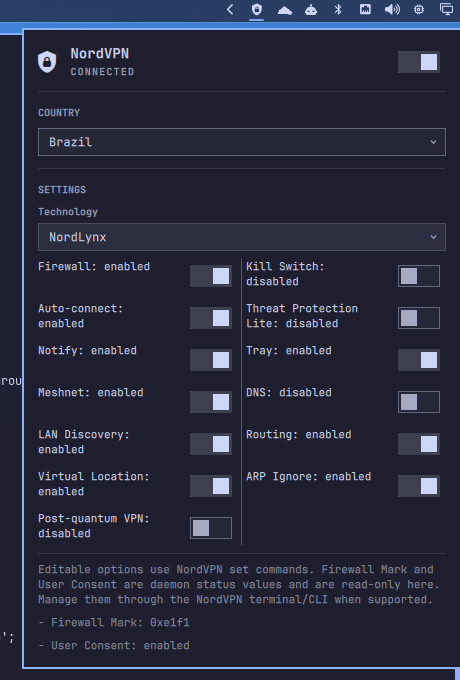
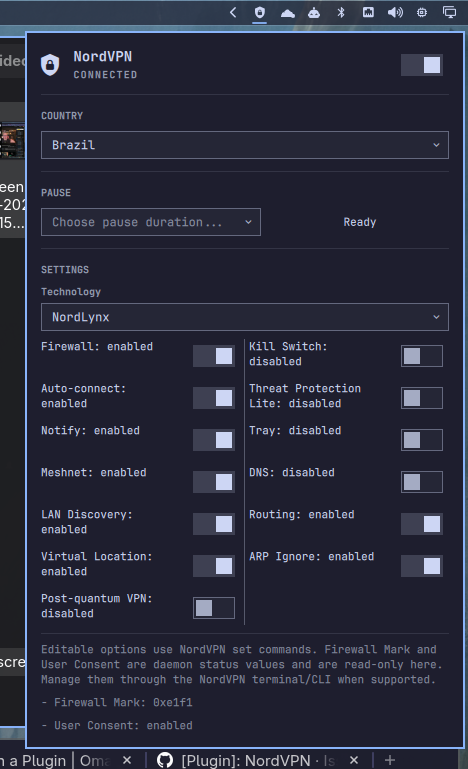
feat: add VPN pause duration selector
- Add pause duration dropdown selector in Panel
- Integrate nordvpn pause command in Service
- Display countdown timer while VPN is paused
- Reset pause countdown on connection state change
- Update documentation and preview image

Changed region(s): [[0.0, 0.0, 1.0, 1.0], [0.7304, 0.2779, 0.8217, 0.3088], [0.5174, 0.2779, 0.5783, 0.3088]]

diff --git a/Service.qml b/Service.qml
@@ -17,7 +17,7 @@ Item {
   readonly property bool transitioning: connectionState === "Connecting" || connectionState === "Reconnecting" || connectionState === "Disconnecting"
   readonly property bool unavailable: connectionState === "Unavailable"
   readonly property bool active: _desired === -1 ? connected : (_desired === 1)
-  readonly property bool busy: statusProcess.running || countriesProcess.running || controlProcess.running || setCountryProcess.running
+  readonly property bool busy: statusProcess.running || countriesProcess.running || controlProcess.running || setCountryProcess.running || pauseProcess.running
   readonly property string statusText: Model.statusText(connectionState)
   property string actionStatus: ""
   property string lastError: ""
@@ -26,6 +26,9 @@ Item {
   property string _countriesOutput: ""
   property var vpnSettings: ({})
   property string settingsError: ""
+  property int pauseRemainingSec: 0
+  property string _pauseDuration: ""
+  readonly property string pauseCountdownText: pauseRemainingSec > 0 ? formatPauseTime(pauseRemainingSec) : "Ready"
   readonly property bool settingsBusy: settingsProcess.running || setSettingProcess.running
 
   function explainError(text) {
@@ -55,6 +58,26 @@ Item {
     _desired = (connected || transitioning) ? 0 : 1
     controlProcess.command = _desired === 1 ? ["nordvpn", "connect"] : ["nordvpn", "disconnect"]
     controlProcess.running = true
+  }
+  function formatPauseTime(seconds) {
+    var total = Math.max(0, parseInt(seconds, 10) || 0)
+    var minutes = Math.floor(total / 60)
+    var secs = total % 60
+    return minutes + ":" + (secs < 10 ? "0" : "") + secs
+  }
+  function durationSeconds(duration) {
+    var values = { "5m": 300, "15m": 900, "30m": 1800, "1h": 3600, "24h": 86400 }
+    return values[String(duration || "")] || 0
+  }
+  function clearPauseCountdown() {
+    pauseRemainingSec = 0
+    _pauseDuration = ""
+  }
+  function pause(duration) {
+    if (!duration || pauseProcess.running) return
+    _pauseDuration = duration
+    pauseProcess.command = ["nordvpn", "pause", duration]
+    pauseProcess.running = true
   }
   function setCountry(value) {
     if (!value || setCountryProcess.running) return
@@ -91,6 +114,16 @@ Item {
       if (ticks >= 6) { ticks = 0; running = false; root._desired = -1 }
     }
   }
+  Timer {
+    id: pauseTimer
+    interval: 1000
+    repeat: true
+    running: root.pauseRemainingSec > 0
+    onTriggered: {
+      if (root.pauseRemainingSec > 0) root.pauseRemainingSec -= 1
+    }
+  }
+
   Timer {
     id: actionStatusTimer
     interval: 3000
@@ -133,6 +166,24 @@ Item {
       if (exitCode === 0) {
         root.countries = Model.parseCountries(countriesStdout.text || root._countriesOutput || "")
         root.countriesLoaded = root.countries.length > 0
+      }
+    }
+  }
+  Process {
+    id: pauseProcess
+    command: []
+    stdout: StdioCollector { id: pauseStdout; waitForEnd: true }
+    stderr: StdioCollector { id: pauseStderr; waitForEnd: true }
+    onExited: function(exitCode) {
+      if (exitCode !== 0) {
+        var output = String(pauseStderr.text || pauseStdout.text || "")
+        root.lastError = Model.elide(output || "Could not pause NordVPN")
+        root.actionStatus = root.lastError
+        actionStatusTimer.restart()
+      } else {
+        root.pauseRemainingSec = root.durationSeconds(root._pauseDuration)
+        root.actionStatus = "NordVPN paused"
+        actionStatusTimer.restart()
       }
     }
   }

diff --git a/Panel.qml b/Panel.qml
@@ -17,6 +17,7 @@ Panel {
   readonly property color iconColor: nord.unavailable ? urgent : (nord.active ? foreground : dim)
   readonly property color barIconColor: nord.unavailable ? Qt.darker(barForeground, 1.2) : (nord.active ? barForeground : Qt.darker(barForeground, 1.55))
   readonly property string toggleHint: nord.active ? "Disconnect" : "Connect"
+  readonly property bool paused: nord.pauseRemainingSec > 0
   implicitWidth: button.implicitWidth
   implicitHeight: button.implicitHeight
 
@@ -26,6 +27,16 @@ Panel {
     nord.refresh()
     nord.refreshSettings()
     Qt.callLater(function() { keyCatcher.forceActiveFocus() })
+  }
+
+  Connections {
+    target: nord
+    function onConnectionStateChanged() {
+      if (nord.connected) {
+        pausePicker.value = ""
+        nord.clearPauseCountdown()
+      }
+    }
   }
 
   IpcHandler {
@@ -45,7 +56,9 @@ Panel {
     bar: root.bar
     text: ""
     foreground: root.barIconColor
-    tooltipText: "NordVPN — " + nord.statusText
+    tooltipText: root.paused
+      ? "NordVPN " + String.fromCodePoint(0x2014) + " Paused (" + nord.pauseCountdownText + ")"
+      : "NordVPN " + String.fromCodePoint(0x2014) + " " + nord.statusText
     onPressed: function(buttonCode) {
       if (buttonCode === Qt.RightButton) nord.refresh()
       else if (buttonCode === Qt.MiddleButton) nord.toggle()
@@ -66,7 +79,7 @@ Panel {
     PanelKeyCatcher {
       id: keyCatcher
       anchors.fill: parent
-      blocked: countryPicker.popupOpen || technologyPicker.popupOpen
+      blocked: countryPicker.popupOpen || pausePicker.popupOpen || technologyPicker.popupOpen
       onCloseRequested: root.close()
       onTabRequested: function(direction) { root.switchPanel(direction) }
       onTextKey: function(t) {
@@ -132,6 +145,45 @@ Panel {
             options: nord.countries
             value: nord.country
             onChanged: function(v) { nord.setCountry(v) }
+          }
+        }
+
+        PanelSeparator { foreground: root.foreground }
+        Column {
+          width: parent.width
+          spacing: Style.space(8)
+          PanelSectionHeader { text: "PAUSE"; foreground: root.foreground; fontFamily: root.fontFamily }
+          Row {
+            width: parent.width
+            spacing: Style.space(10)
+            SearchableDropdown {
+              id: pausePicker
+              width: Style.space(220)
+            showLabel: false
+            placeholderText: "Choose pause duration..."
+            fontFamily: root.fontFamily
+            options: [
+              { value: "5m", label: "5 minutes" },
+              { value: "15m", label: "15 minutes" },
+              { value: "30m", label: "30 minutes" },
+              { value: "1h", label: "1 hour" },
+              { value: "24h", label: "24 hours" }
+            ]
+              onChanged: function(v) {
+                nord.pause(v)
+                pausePicker.value = ""
+              }
+            }
+            Text {
+              width: parent.width - pausePicker.width - Style.space(10)
+              height: pausePicker.implicitHeight
+              text: nord.pauseCountdownText
+              color: root.foreground
+              font.family: root.fontFamily
+              font.pixelSize: Style.font.bodySmall
+              horizontalAlignment: Text.AlignHCenter
+              verticalAlignment: Text.AlignVCenter
+            }
           }
         }
 

diff --git a/README.md b/README.md
@@ -57,6 +57,7 @@ omarchy plugin disable io.github.guiestrela.nordvpn
 - Middle-click: connect or disconnect.
 - In the popup, the switch performs a quick connect or disconnect.
 - The country selector searches countries and runs `nordvpn connect <country>`.
+- The Pause selector pauses the VPN immediately when you choose 5m, 15m, 30m, 1h, or 24h using `nordvpn pause`. A countdown is shown beside the selector, which then returns to its placeholder.
 
 The icon is bright when connected, dimmed when disconnected, and shown in the
 alert color when the NordVPN daemon is unavailable.
